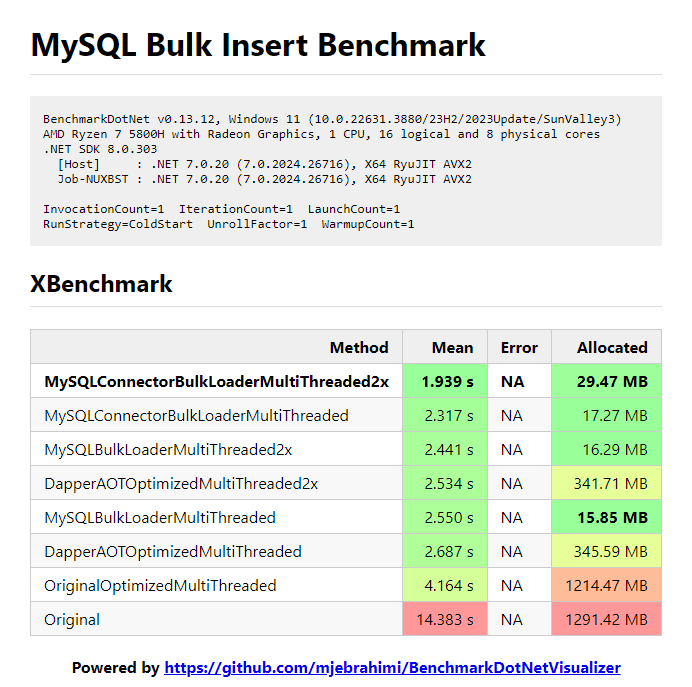
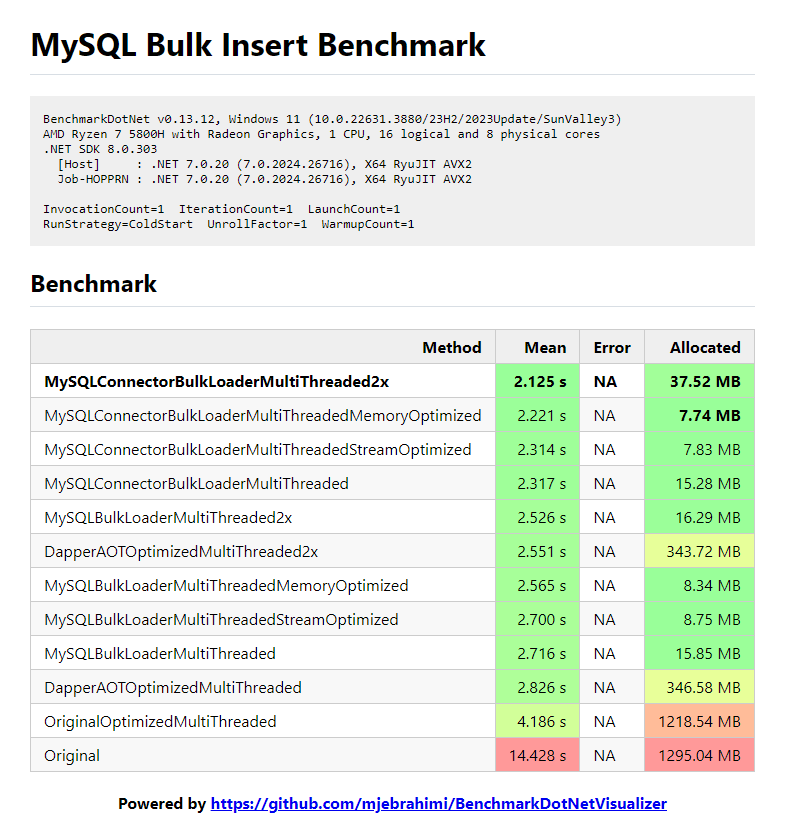
Add Memory/Stream optimized methods + Use Testcontainers.MySql to create database

Changed region(s): [[0.0303, 0.3974, 0.9711, 1.0], [0.0303, 0.1223, 0.9104, 0.3668], [0.0303, 0.0306, 0.698, 0.0917]]

diff --git a/[requested-optimizations]/MySqlBulkInsertExcel-Benchmark/ExcelProcessor.cs b/[requested-optimizations]/MySqlBulkInsertExcel-Benchmark/ExcelProcessor.cs
@@ -229,6 +229,52 @@ public static class ExcelProcessor
         }
     }
 
+    public static async Task RunMySQLConnectorBulkLoaderMultiThreadedMemoryOptimizedAsync(Stream stream, string excelTagName, EfDbContext dbContext)
+    {
+        try
+        {
+            var chunks = await stream.ChunkDualAsync(100_000);
+
+            await Parallel.ForEachAsync(chunks, async (chunk, __) =>
+            {
+                await using var connection = dbContext.Database.CreateNewConnection();
+                await using var _ = await connection.DisableChecksAsync();
+                await connection.BulkInsertAsync(chunk.Stream1, "users", ["id"], ["created_at = NOW(6)"]);
+                await connection.BulkInsertAsync(chunk.Stream2, "tags", ["user_id"], [$"name = '{excelTagName}'"]);
+            });
+        }
+        catch (Exception ex)
+        {
+            throw new Exception($"Excel operation failed: {ex.Message}", ex);
+        }
+    }
+
+    public static async Task RunMySQLConnectorBulkLoaderMultiThreadedStreamOptimizedAsync(Stream stream, string excelTagName, EfDbContext dbContext)
+    {
+        try
+        {
+            var streamChunks = await stream.ChunkAsync(100_000);
+
+            await Parallel.ForEachAsync(streamChunks, async (streamChunk, __) =>
+            {
+                using (streamChunk)
+                {
+                    var stream = new NonDisposableStream(streamChunk);
+                    await using var connection = dbContext.Database.CreateNewConnection();
+                    await using var _ = await connection.DisableChecksAsync();
+                    await connection.BulkInsertAsync(stream, "users", ["id"], ["created_at = NOW(6)"]);
+                    stream.Position = 0;
+                    await connection.BulkInsertAsync(stream, "tags", ["user_id"], [$"name = '{excelTagName}'"]);
+                }
+
+            });
+        }
+        catch (Exception ex)
+        {
+            throw new Exception($"Excel operation failed: {ex.Message}", ex);
+        }
+    }
+
     public static async Task RunMySQLConnectorBulkLoaderMultiThreaded2xAsync(Stream stream, string excelTagName, EfDbContext dbContext)
     {
         try
@@ -280,6 +326,51 @@ public static class ExcelProcessor
                 await using var _ = await connection.DisableChecksAsync();
                 await connection.BulkInsertAsync(usersChunkStream, "users", ["id"], ["created_at = NOW(6)"]);
                 await connection.BulkInsertAsync(tagsChunkStream, "tags", ["user_id"], [$"name = '{excelTagName}'"]);
+            });
+        }
+        catch (Exception ex)
+        {
+            throw new Exception($"Excel operation failed: {ex.Message}", ex);
+        }
+    }
+
+    public static async Task RunMySQLBulkLoaderMultiThreadedMemoryOptimizedAsync(Stream stream, string excelTagName, EfDbContext dbContext)
+    {
+        try
+        {
+            var chunks = await stream.ChunkDualAsync(100_000);
+
+            await Parallel.ForEachAsync(chunks, async (chunk, __) =>
+            {
+                await using var connection = dbContext.Database.CreateNewMySqlDataConnection();
+                await using var _ = await connection.DisableChecksAsync();
+                await connection.BulkInsertAsync(chunk.Stream1, "users", ["id"], ["created_at = NOW(6)"]);
+                await connection.BulkInsertAsync(chunk.Stream2, "tags", ["user_id"], [$"name = '{excelTagName}'"]);
+            });
+        }
+        catch (Exception ex)
+        {
+            throw new Exception($"Excel operation failed: {ex.Message}", ex);
+        }
+    }
+
+    public static async Task RunMySQLBulkLoaderMultiThreadedStreamOptimizedAsync(Stream stream, string excelTagName, EfDbContext dbContext)
+    {
+        try
+        {
+            var streamChunks = await stream.ChunkAsync(100_000);
+
+            await Parallel.ForEachAsync(streamChunks, async (streamChunk, __) =>
+            {
+                using (streamChunk)
+                {
+                    var stream = new NonDisposableStream(streamChunk);
+                    await using var connection = dbContext.Database.CreateNewMySqlDataConnection();
+                    await using var _ = await connection.DisableChecksAsync();
+                    await connection.BulkInsertAsync(stream, "users", ["id"], ["created_at = NOW(6)"]);
+                    stream.Position = 0;
+                    await connection.BulkInsertAsync(stream, "tags", ["user_id"], [$"name = '{excelTagName}'"]);
+                }
             });
         }
         catch (Exception ex)

diff --git a/[requested-optimizations]/MySqlBulkInsertExcel-Benchmark/Program.cs b/[requested-optimizations]/MySqlBulkInsertExcel-Benchmark/Program.cs
@@ -1,15 +1,76 @@
 using BenchmarkDotNetVisualizer;
+using Docker.DotNet;
+using Docker.DotNet.Models;
 using MySqlBulkInsertExcel_Benchmark;
+using Testcontainers.MySql;
 
-var summary = BenchmarkAutoRunner.Run<Benchmark>();
-await summary.SaveAsImageAsync(
-    path: DirectoryHelper.GetPathRelativeToProjectDirectory("Benchmark.png"),
-    options: new ReportHtmlOptions
+await using (var mySqlContainer = await RunMySqlTestContainer())
+{
+    var summary = BenchmarkAutoRunner.Run<Benchmark>();
+    await summary.SaveAsImageAsync(
+        path: DirectoryHelper.GetPathRelativeToProjectDirectory("Benchmark.png"),
+        options: new ReportHtmlOptions
+        {
+            Title = "MySQL Bulk Insert Benchmark",
+            SpectrumColumns = ["Mean", "Allocated"],
+            SortByColumns = ["Mean", "Allocated"],
+            HighlightGroups = false
+        });
+
+    Console.ReadLine();
+
+    await mySqlContainer.StopAsync();
+}
+
+static async Task<MySqlContainer> RunMySqlTestContainer()
+{
+    using var client = new DockerClientConfiguration().CreateClient();
+
+    var images = await client.Images.ListImagesAsync(new ImagesListParameters());
+
+    //Make sure you have the necessary images on your locale or pull them if not exist
+
+    const string ryukImageName = "testcontainers/ryuk";
+    const string ryukVersion = "0.6.0"; //Note the version is tightly coupled with the testcontainers version
+
+    if (images.Any(i => i.RepoTags.Contains($"{ryukImageName}:{ryukVersion}")) is false)
     {
-        Title = "MySQL Bulk Insert Benchmark",
-        SpectrumColumns = ["Mean", "Allocated"],
-        SortByColumns = ["Mean", "Allocated"],
-        HighlightGroups = false
-    });
+        await client.Images.CreateImageAsync(new ImagesCreateParameters
+        {
+            FromImage = ryukImageName,
+            Tag = ryukVersion
+        }, new AuthConfig(), new Progress<JSONMessage>());
+    }
 
-Console.ReadLine();
+    const string mySqlTag = "mysql";
+
+    var mySqlImage = images.FirstOrDefault(i => i.RepoTags.Any(t => t.Contains(mySqlTag)));
+    if (mySqlImage is null)
+    {
+        await client.Images.CreateImageAsync(new ImagesCreateParameters
+        {
+            FromImage = mySqlTag,
+            Tag = "9.0.0"
+        }, new AuthConfig(), new Progress<JSONMessage>());
+
+        images = await client.Images.ListImagesAsync(new ImagesListParameters());
+        mySqlImage = images.FirstOrDefault(i => i.RepoTags.Any(t => t.Contains(mySqlTag)));
+    }
+
+    var mySqlContainer = new MySqlBuilder()
+        .WithImage(mySqlImage!.RepoTags[0])
+        .WithDatabase("ExcelPerformance")
+        .WithPassword("123")
+        .WithUsername("root")
+        .WithPortBinding("8086", "3306")
+        .WithAutoRemove(true)
+        .WithCleanUp(true)
+        .Build();
+
+    await mySqlContainer.StartAsync();
+
+    //Create a checkpoint from database in clean state
+    //var dbConnectionString mySqlContainer.GetConnectionString();
+
+    return mySqlContainer;
+}

diff --git a/[requested-optimizations]/MySqlBulkInsertExcel-Benchmark/Benchmark.cs b/[requested-optimizations]/MySqlBulkInsertExcel-Benchmark/Benchmark.cs
@@ -14,8 +14,7 @@ public class Benchmark()
 {
     private static readonly IServiceProvider serviceProvider;
     private static readonly EfDbContext dbContext;
-    private const string connection = "Server=localhost;Port=8085;Database=ExcelPerformance;User=root;Password=123;AllowLoadLocalInfile=true; MinimumPoolSize=32;";
-
+    private const string connection = "Server=localhost;Port=8086;Database=ExcelPerformance;User=root;Password=123;AllowLoadLocalInfile=true; MinimumPoolSize=32;";
     static Benchmark()
     {
         ThreadPool.SetMinThreads(Environment.ProcessorCount * 2, Environment.ProcessorCount * 2);
@@ -36,6 +35,8 @@ public class Benchmark()
         dbContext = serviceProvider.GetRequiredService<EfDbContext>();
 
         dbContext.Database.Migrate();
+
+        dbContext.Database.ExecuteSqlRaw("SET GLOBAL LOCAL_INFILE=1;");
     }
 
     [IterationSetup]
@@ -65,10 +66,22 @@ public class Benchmark()
     public Task MySQLConnectorBulkLoaderMultiThreaded() => ExcelProcessor.RunMySQLConnectorBulkLoaderMultiThreadedAsync(GetStream(), "tag-name", dbContext);
 
     [Benchmark]
+    public Task MySQLConnectorBulkLoaderMultiThreadedMemoryOptimized() => ExcelProcessor.RunMySQLConnectorBulkLoaderMultiThreadedMemoryOptimizedAsync(GetStream(), "tag-name", dbContext);
+
+    [Benchmark]
+    public Task MySQLConnectorBulkLoaderMultiThreadedStreamOptimized() => ExcelProcessor.RunMySQLConnectorBulkLoaderMultiThreadedStreamOptimizedAsync(GetStream(), "tag-name", dbContext);
+
+    [Benchmark]
     public Task MySQLConnectorBulkLoaderMultiThreaded2x() => ExcelProcessor.RunMySQLConnectorBulkLoaderMultiThreaded2xAsync(GetStream(), "tag-name", dbContext);
 
     [Benchmark]
     public Task MySQLBulkLoaderMultiThreaded() => ExcelProcessor.RunMySQLBulkLoaderMultiThreadedAsync(GetStream(), "tag-name", dbContext);
+
+    [Benchmark]
+    public Task MySQLBulkLoaderMultiThreadedMemoryOptimized() => ExcelProcessor.RunMySQLBulkLoaderMultiThreadedMemoryOptimizedAsync(GetStream(), "tag-name", dbContext);
+
+    [Benchmark]
+    public Task MySQLBulkLoaderMultiThreadedStreamOptimized() => ExcelProcessor.RunMySQLBulkLoaderMultiThreadedStreamOptimizedAsync(GetStream(), "tag-name", dbContext);
 
     [Benchmark]
     public Task MySQLBulkLoaderMultiThreaded2x() => ExcelProcessor.RunMySQLBulkLoaderMultiThreaded2xAsync(GetStream(), "tag-name", dbContext);

diff --git a/[requested-optimizations]/MySqlBulkInsertExcel-Benchmark/Utils.cs b/[requested-optimizations]/MySqlBulkInsertExcel-Benchmark/Utils.cs
@@ -60,6 +60,47 @@ public static class Utils
         return streams;
     }
 
+    public static async Task<List<(MemoryStream Stream1, MemoryStream Stream2)>> ChunkDualAsync(this Stream stream, int maxLines)
+    {
+        var utf8Bytes = await stream.ReadAllBytesAsync();
+        var streams = new List<(MemoryStream, MemoryStream)>();
+
+        var offset = 0;
+        var lineCount = 0;
+        for (int position = 0; position < utf8Bytes.Length; position++)
+        {
+            if (position + 1 == utf8Bytes.Length) //End of file
+            {
+                break;
+            }
+
+            if (lineCount == maxLines)
+            {
+                var stream1 = new MemoryStream(utf8Bytes, offset, position - offset);
+                var stream2 = new MemoryStream(utf8Bytes, offset, position - offset);
+                streams.Add((stream1, stream2));
+                offset = position;
+                lineCount = 0;
+            }
+
+            if (utf8Bytes[position] == 13 && utf8Bytes[position + 1] == 10) //It's a new "\r\n"
+            {
+                lineCount++;
+                position++;
+            }
+        }
+
+        if (utf8Bytes.Length != offset)
+        {
+            var stream1 = new MemoryStream(utf8Bytes, offset, utf8Bytes.Length - offset);
+            var stream2 = new MemoryStream(utf8Bytes, offset, utf8Bytes.Length - offset);
+
+            streams.Add((stream1, stream2));
+        }
+
+        return streams;
+    }
+
     public static List<long> ReadEachLineAsLong(this Stream stream)
     {
         var records = new List<long>();

diff --git a/[requested-optimizations]/MySqlBulkInsertExcel-Benchmark/NonDisposableStream.cs b/[requested-optimizations]/MySqlBulkInsertExcel-Benchmark/NonDisposableStream.cs
@@ -1,0 +1,34 @@
+namespace MySqlBulkInsertExcel_Benchmark;
+
+public class NonDisposableStream(Stream baseStream) : Stream
+{
+    private readonly Stream _baseStream = baseStream ?? throw new ArgumentNullException(nameof(baseStream));
+
+    public override ValueTask DisposeAsync()
+    {
+        // Do nothing to prevent disposal
+        return ValueTask.CompletedTask;
+    }
+
+    protected override void Dispose(bool disposing)
+    {
+        // Do nothing to prevent disposal
+    }
+
+    public override void Close()
+    {
+        // Do nothing to prevent closure
+    }
+
+    public override bool CanRead => _baseStream.CanRead;
+    public override bool CanSeek => _baseStream.CanSeek;
+    public override bool CanWrite => _baseStream.CanWrite;
+    public override long Length => _baseStream.Length;
+    public override long Position { get => _baseStream.Position; set => _baseStream.Position = value; }
+
+    public override void Flush() => _baseStream.Flush();
+    public override int Read(byte[] buffer, int offset, int count) => _baseStream.Read(buffer, offset, count);
+    public override long Seek(long offset, SeekOrigin origin) => _baseStream.Seek(offset, origin);
+    public override void SetLength(long value) => _baseStream.SetLength(value);
+    public override void Write(byte[] buffer, int offset, int count) => _baseStream.Write(buffer, offset, count);
+}
